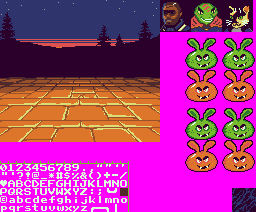
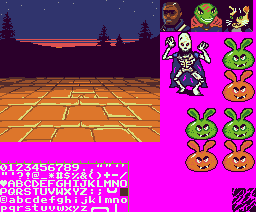
Added new enemy: Alien Skeleton.
Adjusted dungeon screen.

Changed region(s): [[0.625, 0.1415, 0.875, 0.4811], [0.9062, 0.8774, 1.0, 1.0]]

diff --git a/src/dungeon.c b/src/dungeon.c
@@ -236,10 +236,10 @@ void sf_draw_dungeon_walls(void)
 	}
 }
 
-// #WIP #TEST Currently not being used.
 void sf_draw_tiles_screen_background(void)
 {
-	for (int x = 0; x < 10; x++)
+	// Draw tiled background.
+	for (int x = 0; x < 11; x++)
 	{
 		for (int y = 0; y < 8; y++)
 		{
@@ -249,41 +249,46 @@ void sf_draw_tiles_screen_background(void)
 						   SPRITES_PAGE, active_page, opHMMM);
 		}
 	}
+
+	// Draw menu background in one solid color.
+	LMMV(24, 140 + active_page * 256,
+		 8*20, 8*5+6,
+		 0, 0);
 }
 
 void sf_draw_portraits(void)
 {
 	// Names.
-	sf_draw_text("I.Elba",	8*22, 8*1,	15, 0);
-	sf_draw_text("Echo",	8*22, 8*7,	15, 0);
-	sf_draw_text("Lisbeth",	8*22, 8*13,	15, 0);
+	sf_draw_text("I.Elba",	192,  16, 15, 0);
+	sf_draw_text("Echo",	192,  60, 15, 0);
+	sf_draw_text("Lisbeth",	192, 104, 15, 0);
 
 	// Portraits.
 	sf_screen_copy(160, 0,
 				   31, 32,
-				   8*22, 8*1+8+1,
+				   192, 24,
 				   SPRITES_PAGE, active_page, opHMMM);
 
 	sf_screen_copy(160 + 32, 0,
 				   31, 32,
-				   8*22, 8*7+8+1,
+				   192, 68,
 				   SPRITES_PAGE, active_page, opHMMM);
 
 	sf_screen_copy(160 + 63, 0,
 	 			   31, 32,
-	 			   8*22, 8*13+8+1,
+	 			   192, 112,
 	 			   SPRITES_PAGE, active_page, opHMMM);
 
 	// HP bars.
-	LMMV(8*22 + 31 + 2, 8*1+8+1 + active_page * 256,
+	LMMV(224, 24 + active_page * 256,
 		 4, 32,
 		 11, 0);
 
-	LMMV(8*22 + 31 + 2, 8*7+8+1 + active_page * 256,
+	LMMV(224, 68 + active_page * 256,
 		 4, 32,
 		 11, 0);
 
-	LMMV(8*22 + 31 + 2, 8*13+8+1 + active_page * 256,
+	LMMV(224, 112 + active_page * 256,
 		 4, 32,
 		 11, 0);
 }
@@ -291,9 +296,9 @@ void sf_draw_portraits(void)
 void sf_draw_combat_menu(void)
 {
 	// #WIP
-	sf_draw_text("Attack              ",	8*1, 140, 				0, 8);
-	sf_draw_text("Gadgets", 				8*1, 140 + 8+2, 		8, 0);
-	sf_draw_text("Flee",		 			8*1, 140 + 8+2 + 8+2,	8, 0);
+	sf_draw_text("Attack              ",	24, 140, 				0, 8);
+	sf_draw_text("Gadgets", 				24, 140 + 8+2, 			8, 0);
+	sf_draw_text("Flee",		 			24, 140 + 8+2 + 8+2,	8, 0);
 }
 
 void sf_draw_minimap(void)
@@ -336,7 +341,7 @@ void sf_draw_dungeon_view(void)
 	sf_set_drawing_state(Begin);
 
 	// Screen background test.
-	//sf_draw_tiles_screen_background();
+	sf_draw_tiles_screen_background();
 
 	// #WIP Menu test.
 	sf_draw_combat_menu();
@@ -356,10 +361,10 @@ void sf_draw_dungeon_view(void)
 	// Compass.
 	switch(player_dir)
 	{
-		case North:	sf_draw_text("N", 8*10 +4, 8*0 +1, 9, 0);	break;
-		case East:	sf_draw_text("E", 8*10 +4, 8*0 +1, 9, 0);	break;
-		case South:	sf_draw_text("S", 8*10 +4, 8*0 +1, 9, 0);	break;
-		case West:	sf_draw_text("W", 8*10 +4, 8*0 +1, 9, 0);	break;
+		case North:	sf_draw_text(".N.", 101-8, 7, 9, 0);	break;
+		case East:	sf_draw_text(".E.", 101-8, 7, 9, 0);	break;
+		case South:	sf_draw_text(".S.", 101-8, 7, 9, 0);	break;
+		case West:	sf_draw_text(".W.", 101-8, 7, 9, 0);	break;
 	}
 
 	// #WIP: Draw a different floor in odd tiles to create ilusion of movement.
@@ -396,8 +401,8 @@ void sf_draw_dungeon_view(void)
 	sf_draw_dungeon_walls();
 
 	// #WIP Enemies.
-	//sf_screen_copy(169,55, 32,32, 60,110, SPRITES_PAGE, back_page, LOGICAL_TIMP);
-	//sf_screen_copy(169,55, 32,32, 100,110, SPRITES_PAGE, back_page, LOGICAL_TIMP);
+	sf_screen_copy(160,32, 55,64, 60,60, SPRITES_PAGE, active_page, LOGICAL_TIMP);
+	//sf_screen_copy(169,55, 32,32, 100,110, SPRITES_PAGE, active_page, LOGICAL_TIMP);
 
 	sf_set_drawing_state(WaitingForVDP);
 }

diff --git a/src/font.c b/src/font.c
@@ -151,6 +151,10 @@
 #define niney   164
 
 // Symbols.
+#define dotx	16+8+8+8+8+8+8+8+8
+#define doty   	164
+#define commax	16+8+8+8+8+8+8+8+8+8
+#define commay  164
 #define spacex  16+8+8+8+8+8+8+8+8+8+8+8+8+8
 #define spacey  204
 #define heartx	0
@@ -244,6 +248,9 @@ void sf_draw_char(char character, int x, int y, char log_op)
 		case '7': sf_screen_copy(sevenx,seveny,	FONT_SIZE_X,FONT_SIZE_Y, x,y, FONT_PAGE, active_page, log_op); break;
 		case '8': sf_screen_copy(eightx,eighty,	FONT_SIZE_X,FONT_SIZE_Y, x,y, FONT_PAGE, active_page, log_op); break;
 		case '9': sf_screen_copy(ninex,niney,	FONT_SIZE_X,FONT_SIZE_Y, x,y, FONT_PAGE, active_page, log_op); break;
+
+		case '.': sf_screen_copy(dotx,doty,		FONT_SIZE_X,FONT_SIZE_Y, x,y, FONT_PAGE, active_page, log_op); break;
+		case ',': sf_screen_copy(commax,commay,	FONT_SIZE_X,FONT_SIZE_Y, x,y, FONT_PAGE, active_page, log_op); break;
 
 		case ' ': sf_screen_copy(spacex,spacey,	FONT_SIZE_X,FONT_SIZE_Y, x,y, FONT_PAGE, active_page, log_op); break;
 		case '!': sf_screen_copy(exclax,exclay,	FONT_SIZE_X,FONT_SIZE_Y, x,y, FONT_PAGE, active_page, log_op); break;

diff --git a/src/dungeon.h b/src/dungeon.h
@@ -14,8 +14,8 @@
 #define SPRITES_PAGE 2
 #define WALLS_PAGE 3
 
-#define DUNGEON_SCREEN_X 1 * 8
-#define DUNGEON_SCREEN_Y 1 * 8
+#define DUNGEON_SCREEN_X 24
+#define DUNGEON_SCREEN_Y 16
 #define DUNGEON_SCREEN_DX 160
 #define DUNGEON_SCREEN_DY 120
 
